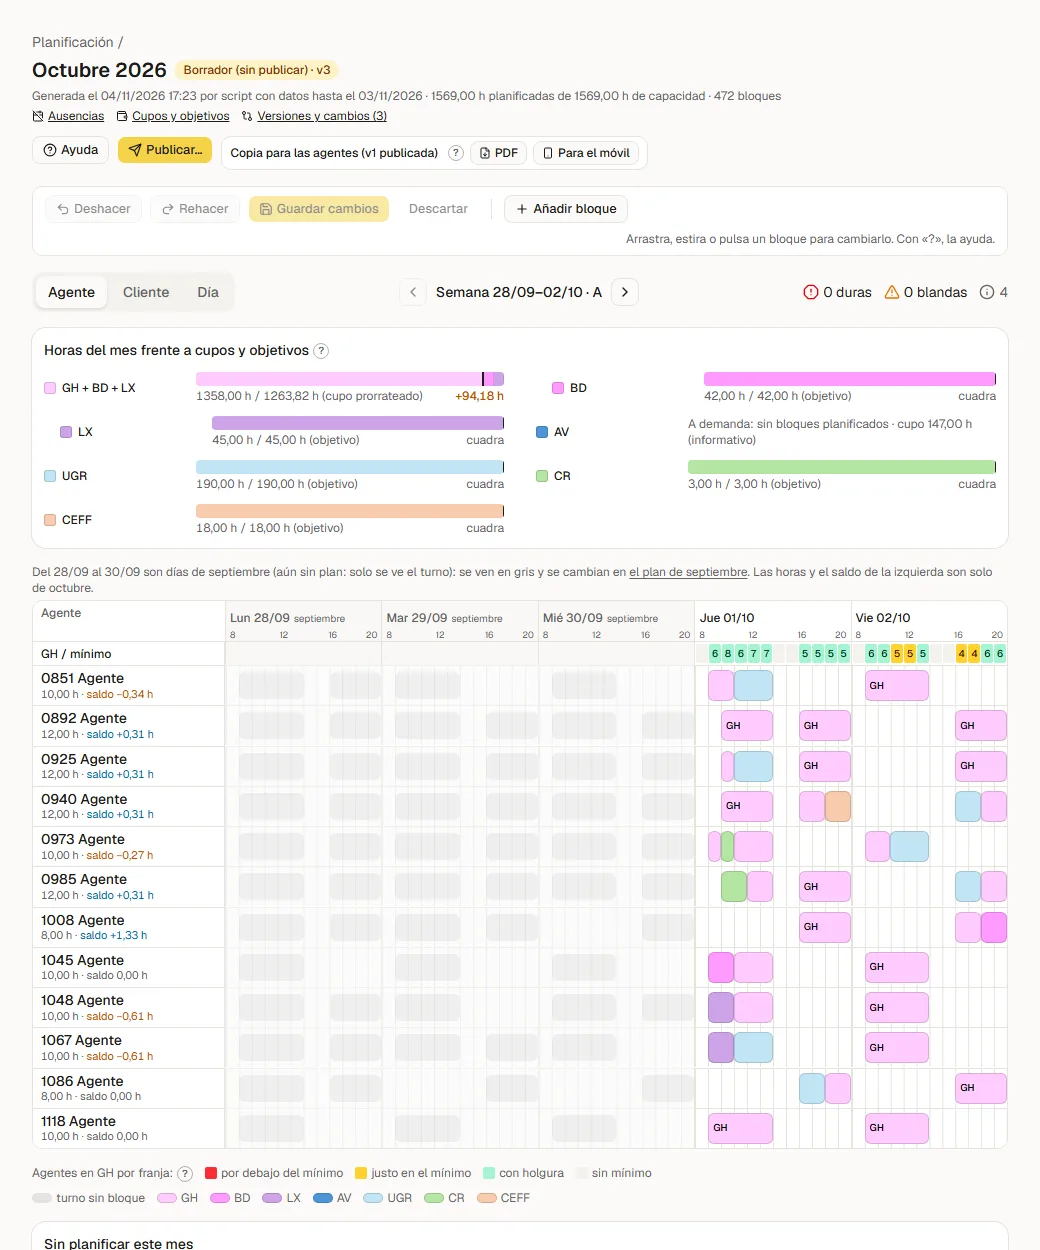
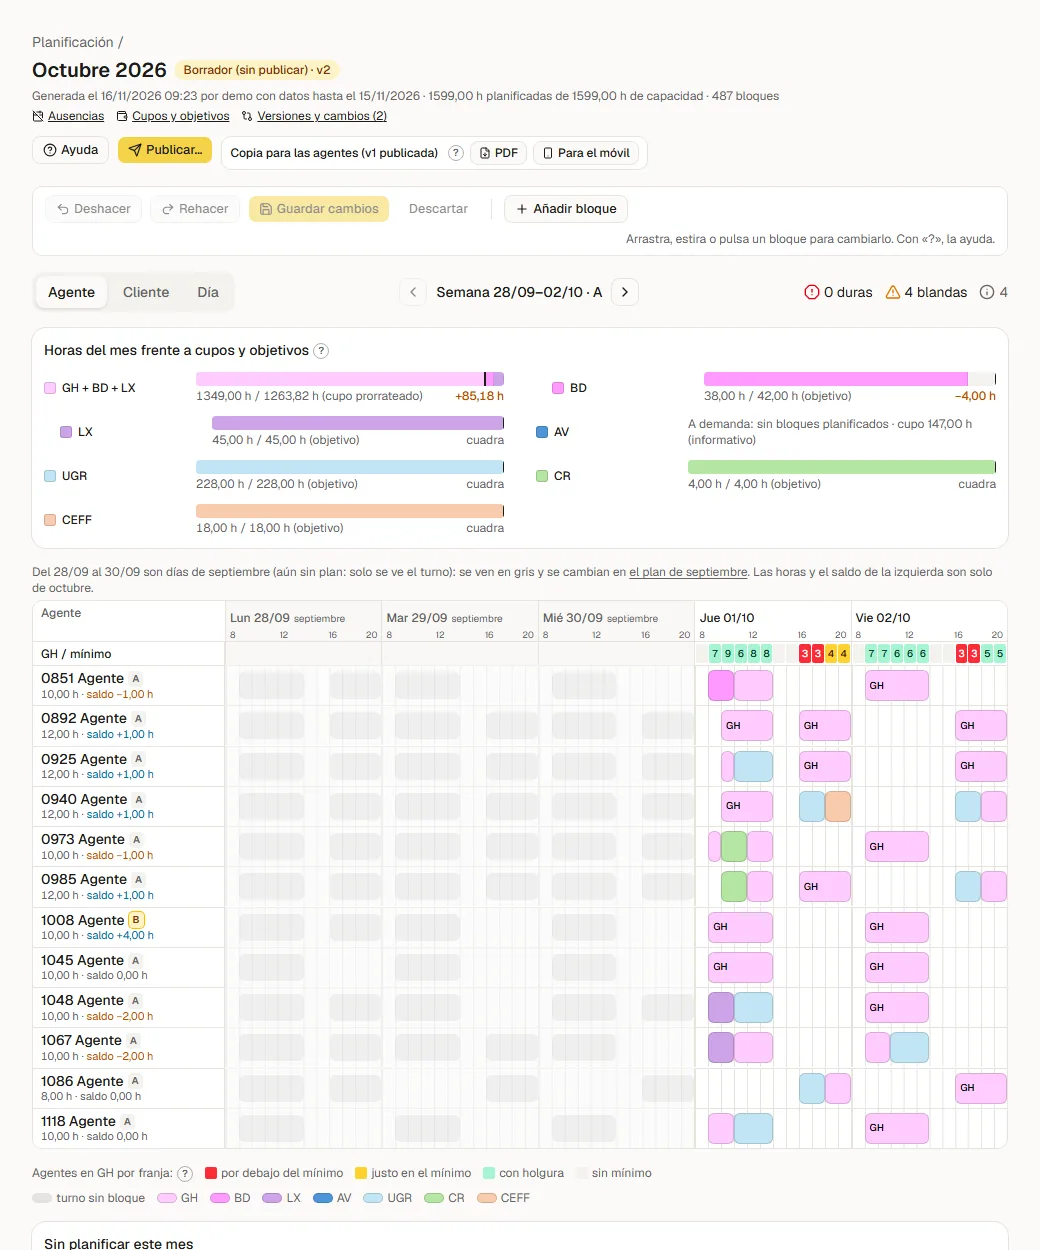
Ayuda de planificación: capturas nuevas de Horas y del tablero
Horas con el recuadro «Horas restantes» y el tablero con la letra A/B
(en amarillo, una semana cambiada a mano). Hechas en modo demo. Guía de
Claude Docs y guía HTML al día; registro de la sesión del 16/11.

diff --git a/docs/registro-sesion-16-noviembre-2026.md b/docs/registro-sesion-16-noviembre-2026.md
@@ -52,8 +52,23 @@ existía ya y se le preguntó lo dudoso. Commit `a8f0f0b`, desplegado el
   - «Empezar de cero»: turno de 30 h y sin `semanasAlternas`.
 - No se probó en el navegador del PC de desarrollo (pide sesión).
 
-## 4. Pendiente
+## 4. Ayuda en imágenes (16/11, tarde)
 
-- Capturas de la ayuda en modo demo (Horas tiene ahora cuatro recuadros; el
-  tablero, la letra A/B), guía de Claude Docs y guía HTML.
+- **SQLite de demo nueva** en el scratchpad, con `RDB_MOCK=1`, sobre una copia del proyecto (`git worktree`, `npm ci`). Así no se tocó el `npm run dev` del 3000.
+  - `planificacion:semilla` y `planificacion:agregados` del 01/07 al 15/11.
+  - Una usuaria `supervision` sin cambio de contraseña pendiente.
+  - Octubre generado y publicado (v1) y su borrador v2 «respetando».
+  - Al agente 1008 se le cambió la semana del 28/09 (y la del 19/10), para que la captura enseñe la letra en amarillo.
+  - `next build` + `next start -p 3200`.
+  - Ojo: dos scripts auxiliares en `scripts/` rompieron el `next build` (dos `main` en el mismo ámbito); van fuera de `scripts/` o se borran antes de compilar.
+  - En Windows, parar la tarea no para el `next start`: hubo que parar su proceso (el que escuchaba en el 3200).
+- **Capturas**: solo «Horas» y «Tablero» (`ayuda-capturas.mjs --mes 2026-10 --solo horas,tablero`). En el JSON solo cambian las coordenadas de «Horas». Las demás pantallas no cambiaron.
+- **Guía de Claude Docs** (pública con enlace):
+  - Textos: los cuatro recuadros de Horas y «¿Qué son las horas restantes?»; «Al generar, te pregunta…» con la publicada; la letra A/B del tablero y el paso a paso para cambiar la semana; «Corregir o borrar un turno mal puesto» en Configuración; «Semana A / B» en Palabras; y la Guía detallada.
+  - Las dos capturas nuevas, con los números pintados con `sharp` (círculo amarillo con borde negro, como en la guía HTML).
+- **Guía HTML** regenerada (`npm run guia:html`, 1,4 MB).
+
+## 5. Pendiente
+
+- Copiar `guia-supervision.html` a la carpeta compartida de supervisión.
 - Probar en producción, con usuario de supervisión, los cuatro cambios.
